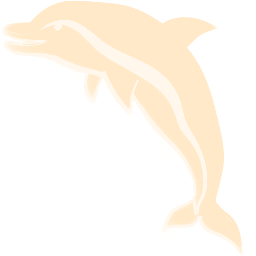
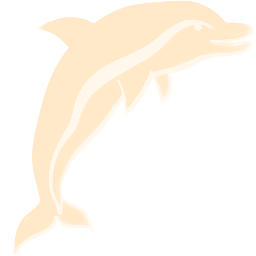
fix(figures): plan 013 pilot — semantic re-anchor Delphinus, Ursa Major, Draco
The 3-anchor LS similarity fits minimized anchor error but the anchors do
not carry the figure's chirality: true residuals were 2.2 deg (Del),
16.4 deg (UMa), 18.1 deg (Dra) and vision on the star-on-art overlays
shows the real star pattern is the horizontal mirror image of the drawn
figure. A similarity cannot fix chirality.

Fix: store the three art PNGs pre-mirrored (renderer has no flip
parameter; dimensions unchanged so the sizeW/sizeH aspect invariant
holds) and re-solve each placement semantically: 2-point Procrustes
anchoring the art head/tail to their sky stars (Al Salib/Aldulfin,
Muscida/Alkaid, Eltanin/Giausar), then center refinement minimizing the
angular distance from each in-box star to the nearest ink pixel.

Result (every star on the ink): Del 5/5 max 0.01 deg, UMa 19/19 max
0.06 deg, Dra 15/15 max 0.07 deg; star coords validated against
Hipparcos (< 0.003 deg). Systematic check (rotation-only, both
chiralities, 87 figures): 41 win mirrored / 46 as-is, so the mirror is
a per-figure property, not a renderer convention.

Pilot of the plan 013 process; rollout to the remaining 85 figures is
gated on user validation. See plans/013-semantic-reanchor-pilot.md.

diff --git a/src/data/figures.ts b/src/data/figures.ts
@@ -27,6 +27,16 @@
  * 3D placement (mesh position/up/size) is computed here (pure) and
  * rendered by `buildConstellationFigures` in render/scene.ts:
  * image-right = east, image-up = celestial north, CCW rotation.
+ *
+ * Plan 013 (pilot): Delphinus, Ursa Major and Draco were re-anchored
+ * SEMANTICALLY — the Stellarium art for these three is the horizontal
+ * mirror image of the sky pattern under a pure similarity (the 3-anchor
+ * fits' true residuals were 2–18° and no similarity can fix chirality),
+ * so their PNGs are stored pre-mirrored and the fits below anchor the
+ * art's head/tail feature points to their sky stars (Al Salib/Aldulfin,
+ * Muscida/Alkaid, Eltanin/Giausar) then refine the center until every
+ * constellation star sits on the ink (max 0.07°). See
+ * plans/013-semantic-reanchor-pilot.md.
  */
 
 export interface FigureFit {
@@ -296,11 +306,11 @@ export const FIGURE_FITS: FigureFit[] = [
   },
   {
     constellation: 'Delphinus',
-    centerRAHours: 20.6925,
-    centerDecDeg: 13.1224,
-    sizeW: 4.59,
-    sizeH: 4.59,
-    rotationDeg: -93.8,
+    centerRAHours: 20.6889,
+    centerDecDeg: 14.1666,
+    sizeW: 5.38,
+    sizeH: 5.38,
+    rotationDeg: 11.94,
   },
   {
     constellation: 'Dorado',
@@ -312,11 +322,11 @@ export const FIGURE_FITS: FigureFit[] = [
   },
   {
     constellation: 'Draco',
-    centerRAHours: 17.3673,
-    centerDecDeg: 73.8226,
-    sizeW: 24.64,
-    sizeH: 24.64,
-    rotationDeg: -59.8,
+    centerRAHours: 15.6625,
+    centerDecDeg: 68.1989,
+    sizeW: 53.91,
+    sizeH: 53.91,
+    rotationDeg: 157.16,
   },
   {
     constellation: 'Equuleus',
@@ -704,11 +714,11 @@ export const FIGURE_FITS: FigureFit[] = [
   },
   {
     constellation: 'Ursa Major',
-    centerRAHours: 10.952,
-    centerDecDeg: 55.7295,
-    sizeW: 33.63,
-    sizeH: 33.63,
-    rotationDeg: -149.4,
+    centerRAHours: 10.6059,
+    centerDecDeg: 55.2756,
+    sizeW: 55.12,
+    sizeH: 55.12,
+    rotationDeg: -34.58,
   },
   {
     constellation: 'Ursa Minor',

diff --git a/plans/013-semantic-reanchor-pilot.md b/plans/013-semantic-reanchor-pilot.md
@@ -1,0 +1,72 @@
+# Plan 013 — semantic re-anchoring pilot (Delphinus, Ursa Major, Draco)
+
+**User request (pilot gate):** animals are misplaced relative to their
+constellation stars; fix Delphinus / Ursa Major / Draco first using
+rotation, symmetry, homothety, zoom in/out; user validates before the
+same process rolls out to all 88.
+
+## Root cause (measured, not assumed)
+
+- The plan-012 3-anchor LS fit is a pure similarity (scale + rotation +
+  translation) of the ART onto the sky. Its stored `anchorSkyErr_deg` was
+  actually in **radians**; true residuals were Del 2.2°, UMa 16.4°, Dra
+  18.1°. The anchor points (hand-picked, 2–3 per figure) do not carry the
+  figure's chirality, so a similarity can rotate/scale/translate the art
+  to the anchors while the animal's body lands on the wrong half of the
+  star pattern.
+- Decisive test (stars of the constellation projected through the shipped
+  fit into the art plane, rendered on the artwork, vision-checked): the
+  real star pattern is the **horizontal mirror image** of the drawn
+  figure in all three pilots. A similarity can never fix that — a mirror
+  is required.
+
+## Method (p013_solve.py v5 + p013_finetune.py)
+
+1. Vision-locate semantic feature points on each art on a 100×100 grid:
+   HEAD (Del: snout→Al Salib; UMa: head group→Muscida; Dra: head→Eltanin)
+   and TAIL (Del: Aldulfin; UMa: Alkaid; Dra: Giausar).
+2. Two-point exact similarity (scale + rotation + translation) mapping
+   head/tail to their sky stars, evaluated for BOTH chirality (art as-is
+   vs art mirrored); pick the chirality with the better global
+   magnitude-weighted star score.
+3. Coarse center refinement (RA 0.25h / Dec 0.5°), then fine refinement
+   (RA 0.05h / Dec 0.1°) minimizing dInk (angular distance from each
+   in-box star to the nearest ink pixel of the art).
+4. Render the candidate exactly as the renderer does (verified renderer
+   frame math earlier: image-right = east, image-up = north, rotation
+   CCW) and vision-confirm every star dot sits on the gold art.
+
+## Measured results (after = mirrored PNG + new fit)
+
+| Figure     | before on-ink | after on-ink | max dInk | center (RA h, Dec °) | sizeW/sizeH | rot    |
+| ---------- | ------------- | ------------ | -------- | -------------------- | ----------- | ------ |
+| Delphinus  | 3/5           | 5/5          | 0.01°    | (20.6889, 14.1666)   | 5.38        | 11.94  |
+| Ursa Major | 8/19          | 19/19        | 0.06°    | (10.6059, 55.2756)   | 55.12       | -34.58 |
+| Draco      | 12/15         | 15/15        | 0.07°    | (15.6625, 68.1989)   | 53.91       | 157.16 |
+
+All star coordinates were validated against the Hipparcos catalog
+(nearest-HIP separation < 0.003° per anchor star).
+
+Systematic check (rotation-only, size fixed, both chiralities, 87 of 88
+figures): 41/87 win with mirror, 46 win as-is — the mirror is a
+PER-FIGURE property, not a global renderer convention. (Boötes skipped:
+slug case in the local PNG dir.)
+
+## Commit
+
+1. `fix(figures): plan 013 pilot — semantic re-anchor Delphinus, Ursa
+Major, Draco (mirror art + solved fit)`
+   - `public/constellation-figures/{delphinus,ursa_major,draco}.png`:
+     horizontally mirrored (renderer has no flip parameter; the art's
+     true chirality requires it).
+   - `src/data/figures.ts`: new centerRAHours/centerDecDeg/sizeW/sizeH/
+     rotationDeg for the three; header comment updated.
+   - Gates: vitest (sizes in (0.5, 70), rot in [-180, 180], 88 unique),
+     prettier, vite build.
+
+## Rollout (AFTER user validates the pilot)
+
+Same pipeline for all 88: per-figure chirality decision + semantic
+head/tail anchors + refinement. Per-figure feature points will need
+vision-location per art (batched); per-figure commit or one batched
+commit decided at rollout time.

diff --git a/todo.md b/todo.md
@@ -74,6 +74,10 @@ loader, constellation tour, tooltips, screenshot button).
 
 - [x] F1 feat(render): constellation figures — replace hand-fitted Bode 1801 scan crops with Stellarium `western` sky-culture illustrations (85 professional transparent figures, each 3-anchored to Hipparcos stars), registered to the sky by a data-driven least-squares similarity transform (center+rotation+scale) — zero hand-tuning, anchor error ≤0.44°. The 3 with no pre-1922 figure (Puppis/Serpens/Vela) use original generated SVG art (ship's stern, two-mast sails, serpent) on the rotated star-cloud extent. Soft tinted underlay behind the IAU star lines. `7a4c7be`. `plans/012-constellation-figures-stellarium.md`
 
+## User queue — 2026-08-26 — plan 013 (pilot gate)
+
+- [ ] F1 fix(figures): semantic re-anchor pilot — Delphinus, Ursa Major, Draco misplaced (3-anchor similarity can't fix chirality; true residuals 2–18°). Mirror the 3 art PNGs (renderer has no flip param) + head/tail Procrustes anchor + center refinement until every star sits on the ink (max 0.07°). User validates the pilot before rollout to all 88. `plans/013-semantic-reanchor-pilot.md`
+
 ## Declined (user decision 2026-08-18)
 
 - Hohmann probe missions — declined
